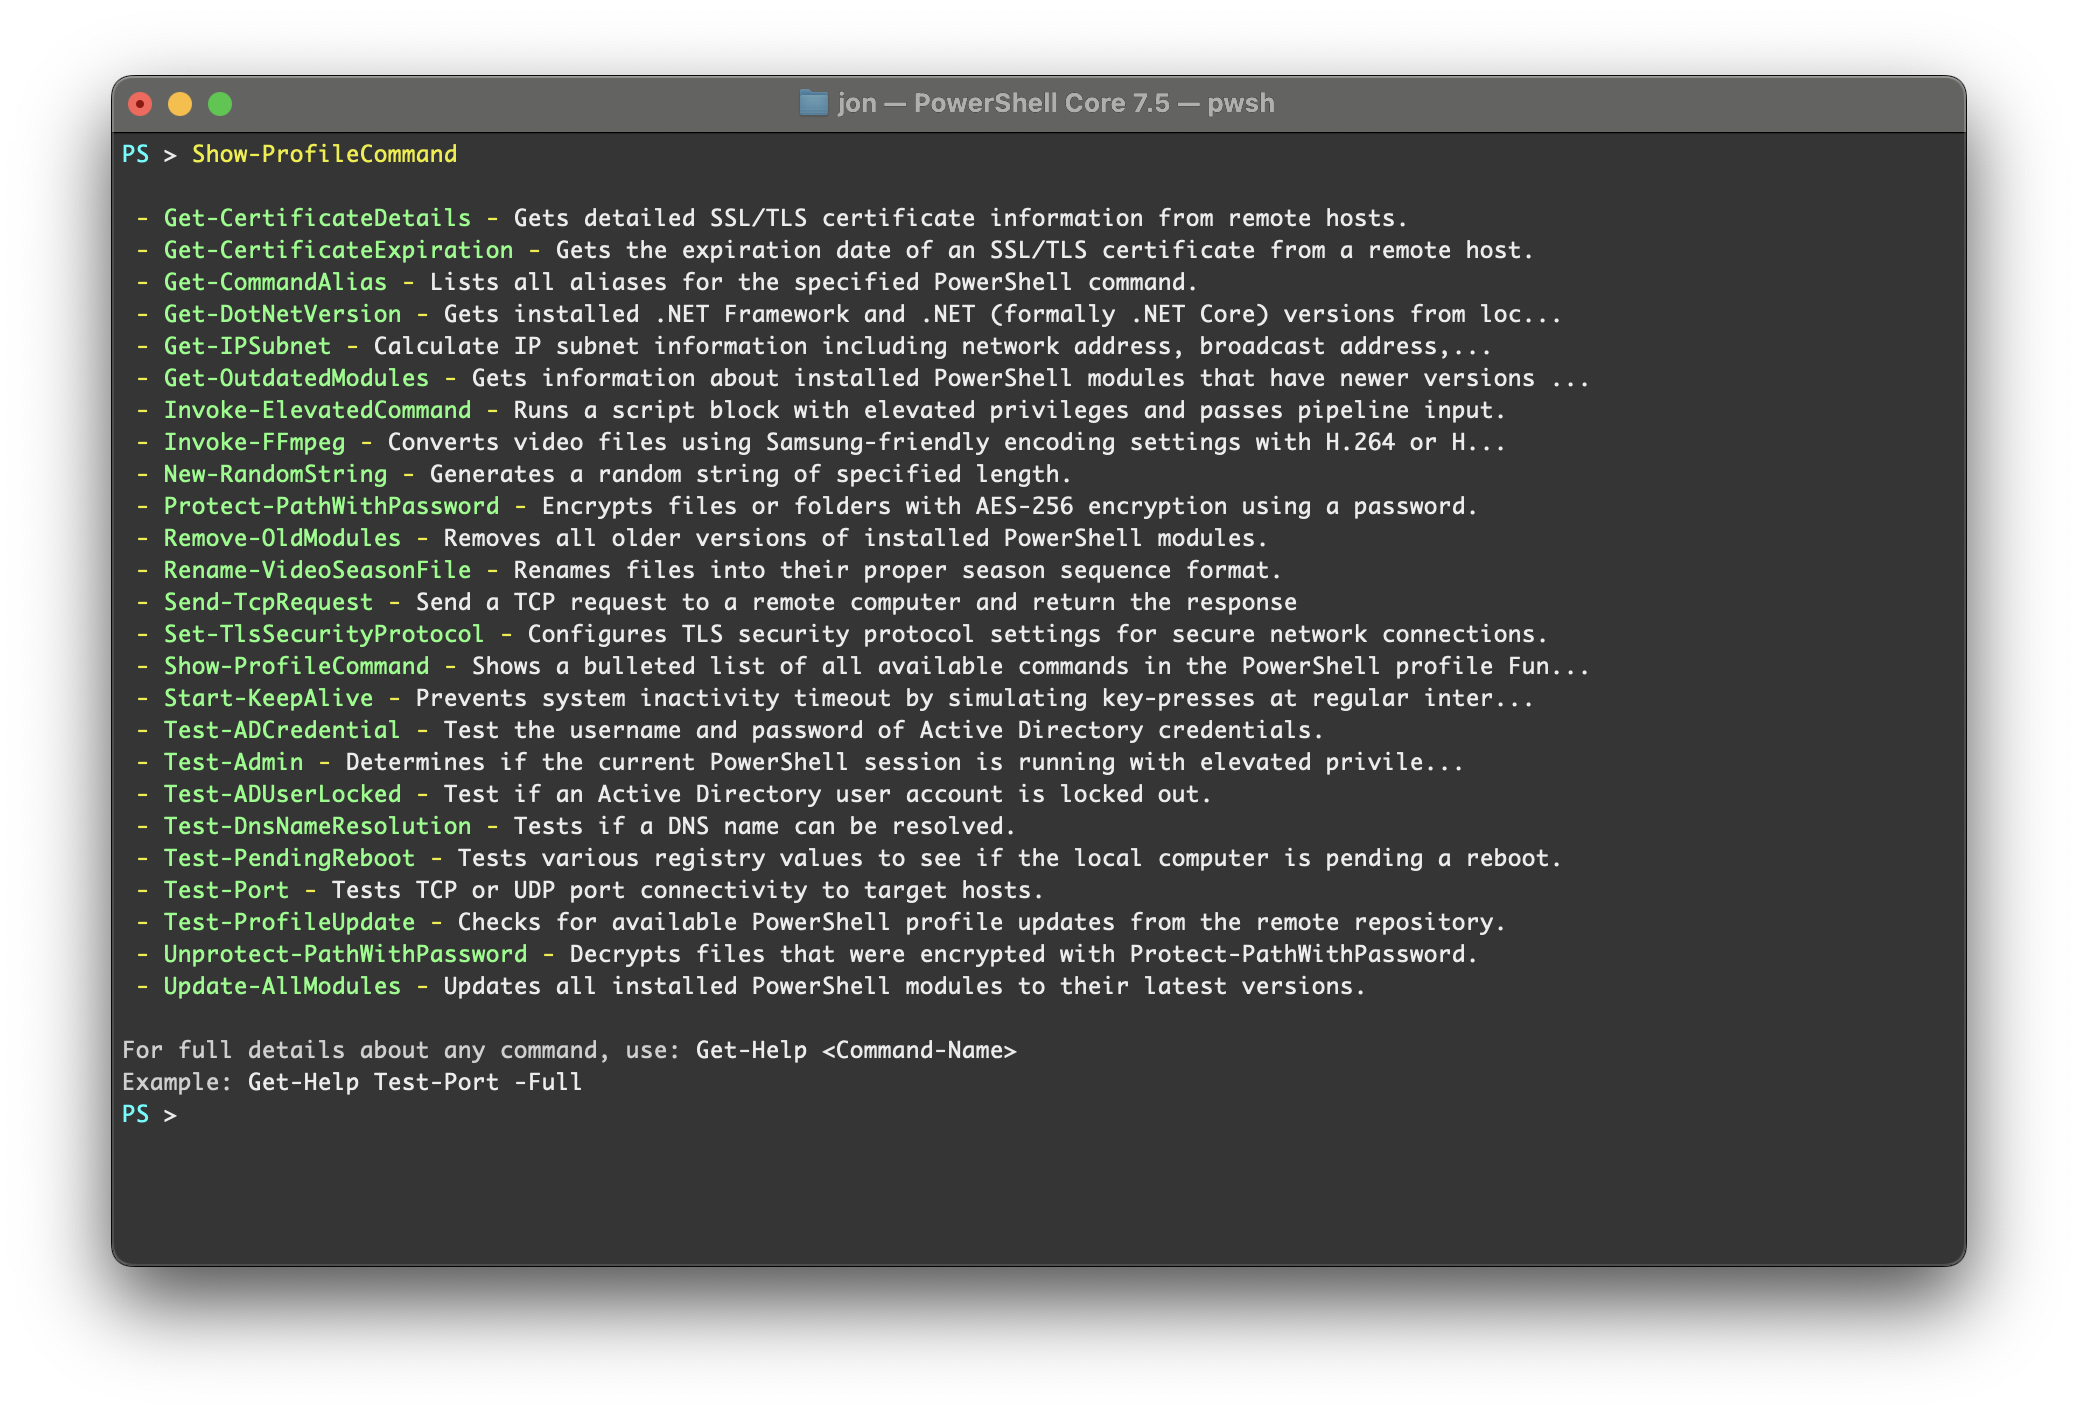
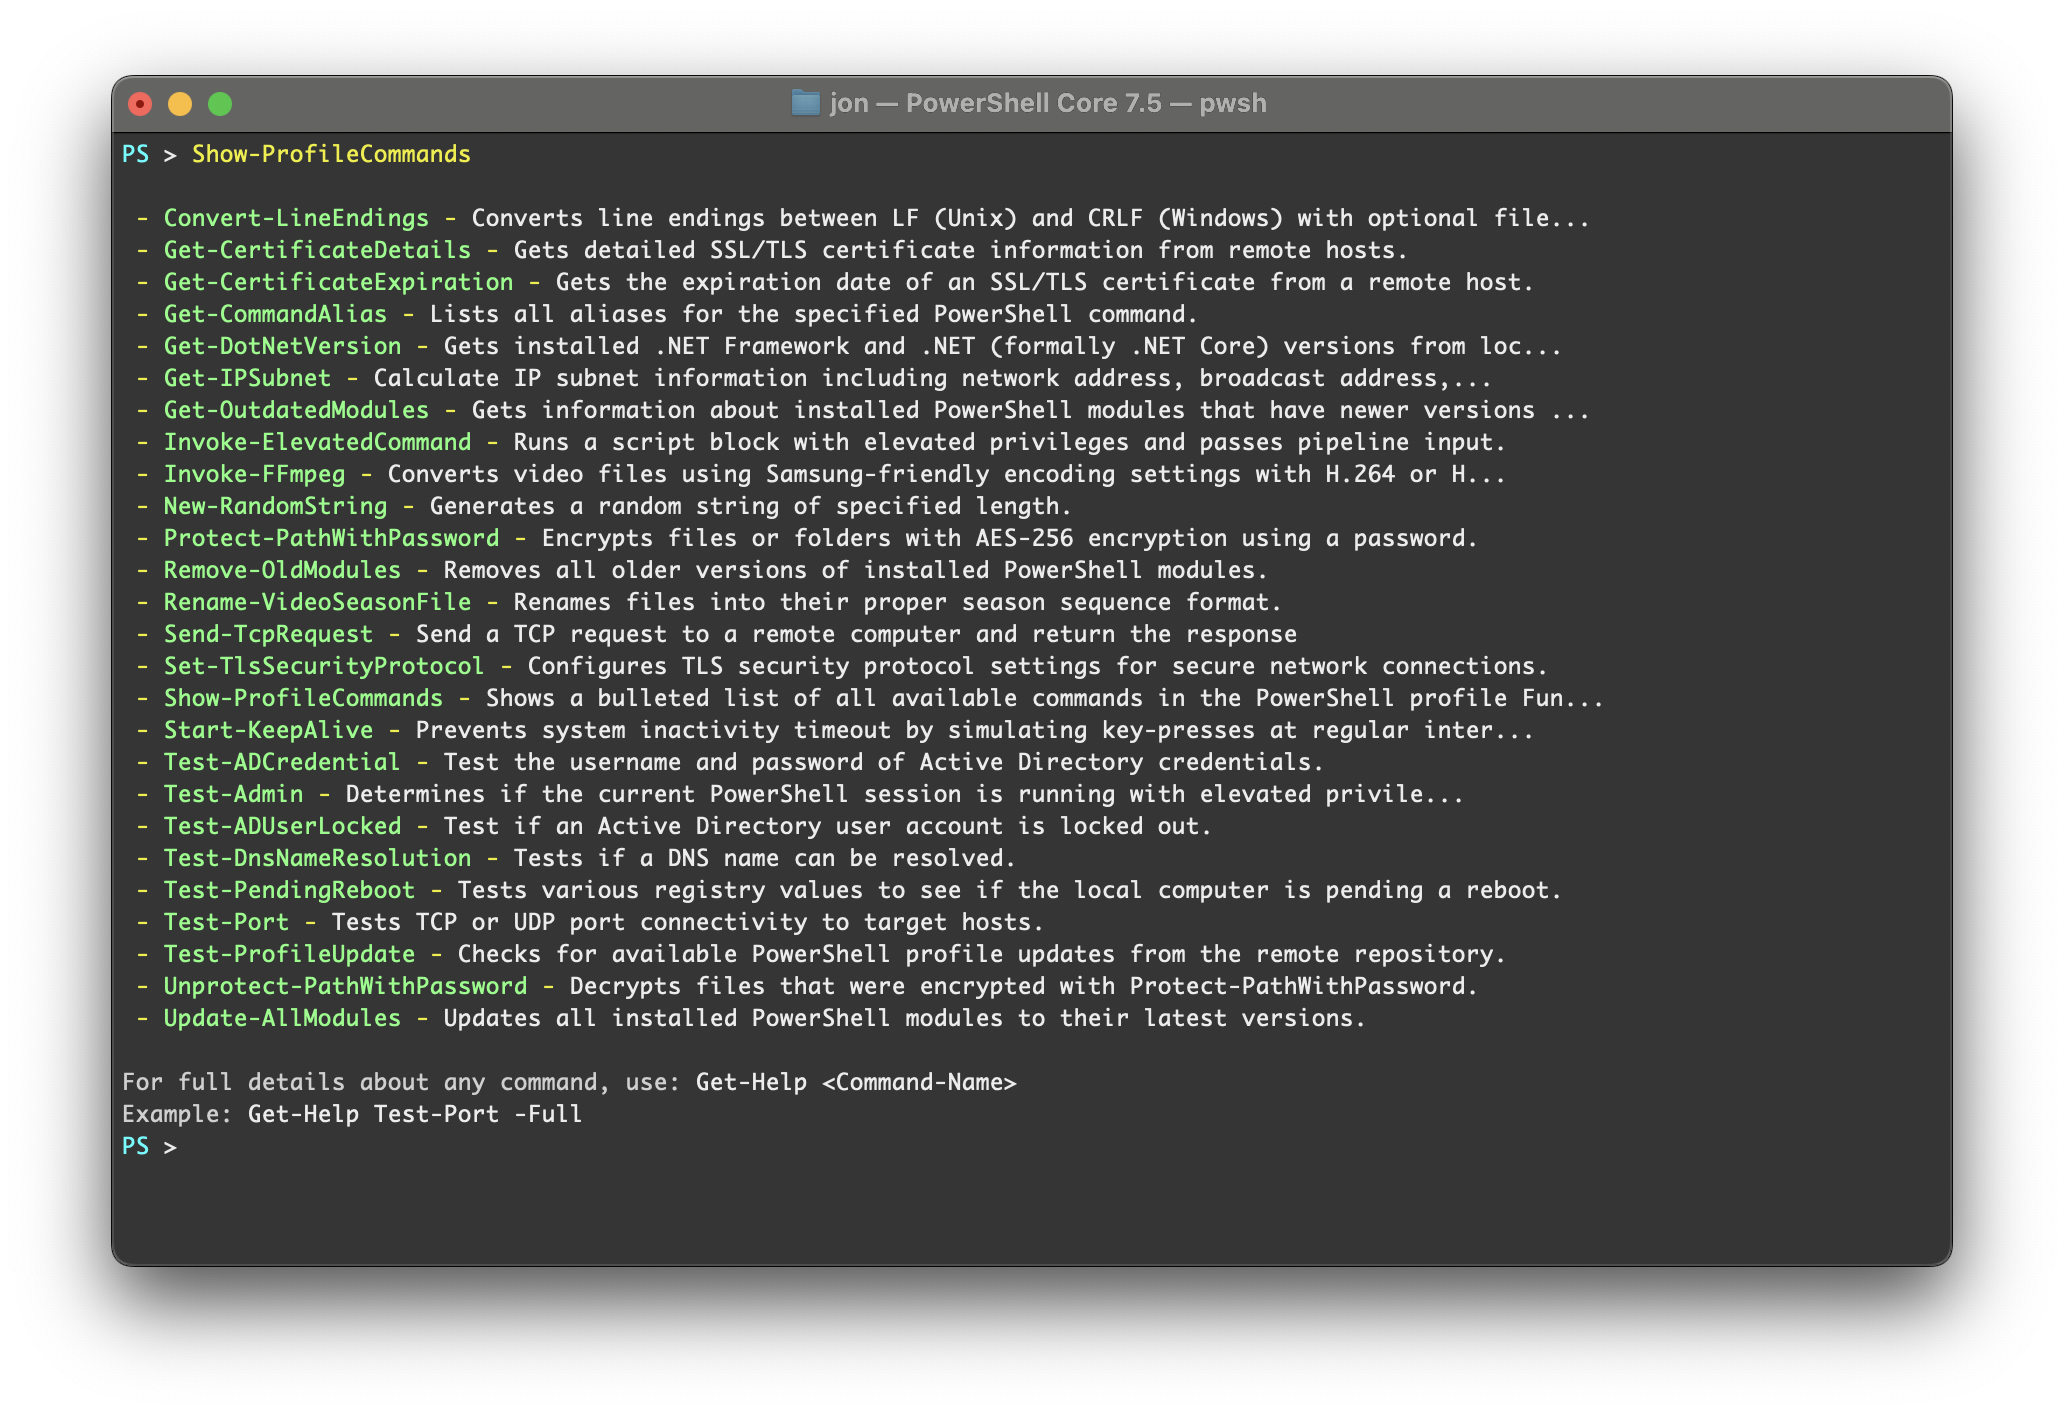
refactor: rename Show-ProfileCommand to Show-ProfileCommands

Changed region(s): [[0.062, 0.0934, 0.7752, 0.8091], [0.4031, 0.0622, 0.4961, 0.0934]]

diff --git a/README.md b/README.md
@@ -92,16 +92,16 @@ The profile includes various utility commands organized by category:
 <details>
 <summary>📦 PowerShell Module Management</summary><br />
 
-- **[`Get-OutdatedModules`](Functions/Get-OutdatedModules.ps1)** — Gets information about installed PowerShell modules that have newer versions available
+- **[`Get-OutdatedModules`](Functions/Get-OutdatedModules.ps1)** — Check if any installed PowerShell modules have newer versions
 - **[`Remove-OldModules`](Functions/Remove-OldModules.ps1)** — Removes older versions of installed PowerShell modules
-- **[`Update-AllModules`](Functions/Update-AllModules.ps1)** — Updates all installed PowerShell modules to their latest versions
+- **[`Update-AllModules`](Functions/Update-AllModules.ps1)** — Updates all PowerShell modules to latest versions
 
 </details>
 
 <details>
 <summary>🛠 Profile Management</summary><br />
 
-- **[`Show-ProfileCommand`](Functions/Show-ProfileCommand.ps1)** — Shows a bulleted list of all available commands in the PowerShell profile Functions folder
+- **[`Show-ProfileCommands`](Functions/Show-ProfileCommands.ps1)** — Show all commands available in this PowerShell profile
 - **[`Test-ProfileUpdate`](Functions/Test-ProfileUpdate.ps1)** — Checks for available profile updates from the GitHub repository
 
 </details>
@@ -110,14 +110,14 @@ The profile includes various utility commands organized by category:
 <summary>🎬 Media Processing</summary><br />
 
 - **[`Invoke-FFmpeg`](Functions/Invoke-FFmpeg.ps1)** — Converts video files using Samsung TV-friendly H.264/H.265 encoding
-- **[`Rename-VideoSeasonFile`](Functions/Rename-VideoSeasonFile.ps1)** — Batch renames video files with season/episode formatting
+- **[`Rename-VideoSeasonFile`](Functions/Rename-VideoSeasonFile.ps1)** — Batch renames TV show episode files to a consistent format
 
 </details>
 
 <details>
 <summary>🔧 Utilities</summary><br />
 
-- **[`Convert-LineEndings`](Functions/Convert-LineEndings.ps1)** — Converts line endings between LF and CRLF with optional file encoding conversion
+- **[`Convert-LineEndings`](Functions/Convert-LineEndings.ps1)** — Converts line endings between Unix and Windows
 - **[`Get-CommandAlias`](Functions/Get-CommandAlias.ps1)** — Displays aliases for PowerShell cmdlets
 - **[`Get-IPSubnet`](Functions/Get-IPSubnet.ps1)** — Calculates IP subnet information including network/broadcast addresses
 - **[`New-RandomString`](Functions/New-RandomString.ps1)** — Generates random strings, useful for passwords/tokens
